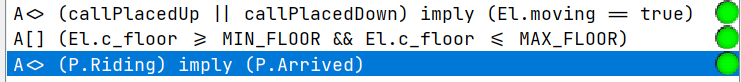
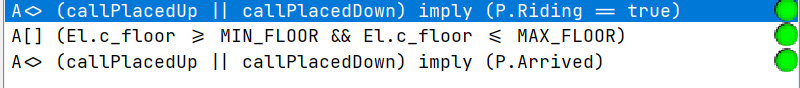
docs: finish single passenger model in validation, upload multi passenger model

diff --git a/doc/validation_doc/validation_doc.md b/doc/validation_doc/validation_doc.md
@@ -1,19 +1,97 @@
-
-
 ## Risk Management
 
 ### General System Risks:
-- Passenger's call up/down are not properly responded
+
+- Passenger's call up/down are not eventually responded
 - Passenger can't eventually reach their target floor
 - Elevator goes out of normal range (floor -1 to 3)
 
 ### FTA Aanalysis
-The detailed FTA result is given in the following diagram: 
+
+The detailed FTA result is given in the following diagram:
+
 <div align=center>
 <img src="./imgs/FTA.png" width="500"/>
 </div>
 
-### UPPAAL model checking 
+### UPPAAL model checking
 
 #### 1. Single Passenger
-- This section will introduce a UPPAAL model which simulates the state machine in the situation of one passenger and one elevator. All the above risks will be tested by queries
+
+- This section will introduce a UPPAAL model which simulates the state machine in the situation of one passenger and one elevator. All the above risks will be tested by its corresponding query. The detailed model will be demonstrated below:
+- Global Statement:
+
+```UPPAAL
+// Channels
+broadcast chan callUp, callDown, requestMove, stopMove, arrivedFloor;
+
+ // Track if passenger calls
+bool callPlacedUp = false;
+bool callPlacedDown = false;
+bool reachedDestination = false;
+
+ // Invariants to ensure floor is always within [-1..3]
+const int MIN_FLOOR = -1;
+const int MAX_FLOOR = 3;
+ 
+// Global clocks
+clock globalClock;
+```
+
+- Elevator Statement
+
+```UPPAAL
+// Local states to handle movement and idle
+bool moving = false;
+  
+int c_floor = 0;
+```
+
+- Elevator model:
+
+<div align=center>
+<img src="./imgs/UPPAAL/single_ele.png" width="500"/>
+</div>
+
+The states of the `Elevator` is abstracted to **IDLE** and **MOVING**, the direction edge will be determined by `Dispatcher`
+
+- Dispatcher model:
+
+<div align=center>
+<img src="./imgs/UPPAAL/single_dispatcher.png" width="500"/>
+</div>
+
+The `Dispatcher` orders the elevator to take the passenger to the destination
+
+- Passenger model:
+
+<div align=center>
+<img src="./imgs/UPPAAL/single_passenger.png" width="500"/>
+</div>
+
+The `Passenger` is either waiting, riding the elevator or arrived at destination, its orders will be passed on by the `Dispatcher`
+
+- Validation queries
+
+```UPPAAL
+/*
+every call is eventually serviced
+*/
+A<> (callPlacedUp || callPlacedDown) imply (P.Riding == true)
+
+/*
+Elevator always goes within floor -1 to 3
+*/
+A[] (El.c_floor >= MIN_FLOOR && El.c_floor <= MAX_FLOOR)
+
+/*
+passenger eventually reaches the floor
+*/
+A<> (callPlacedUp || callPlacedDown) imply (P.Arrived)
+```
+- All validations passed
+<div align=center>
+<img src="./imgs/UPPAAL/single_pass.png" width="500"/>
+</div>
+
+2. Multi Passengers
